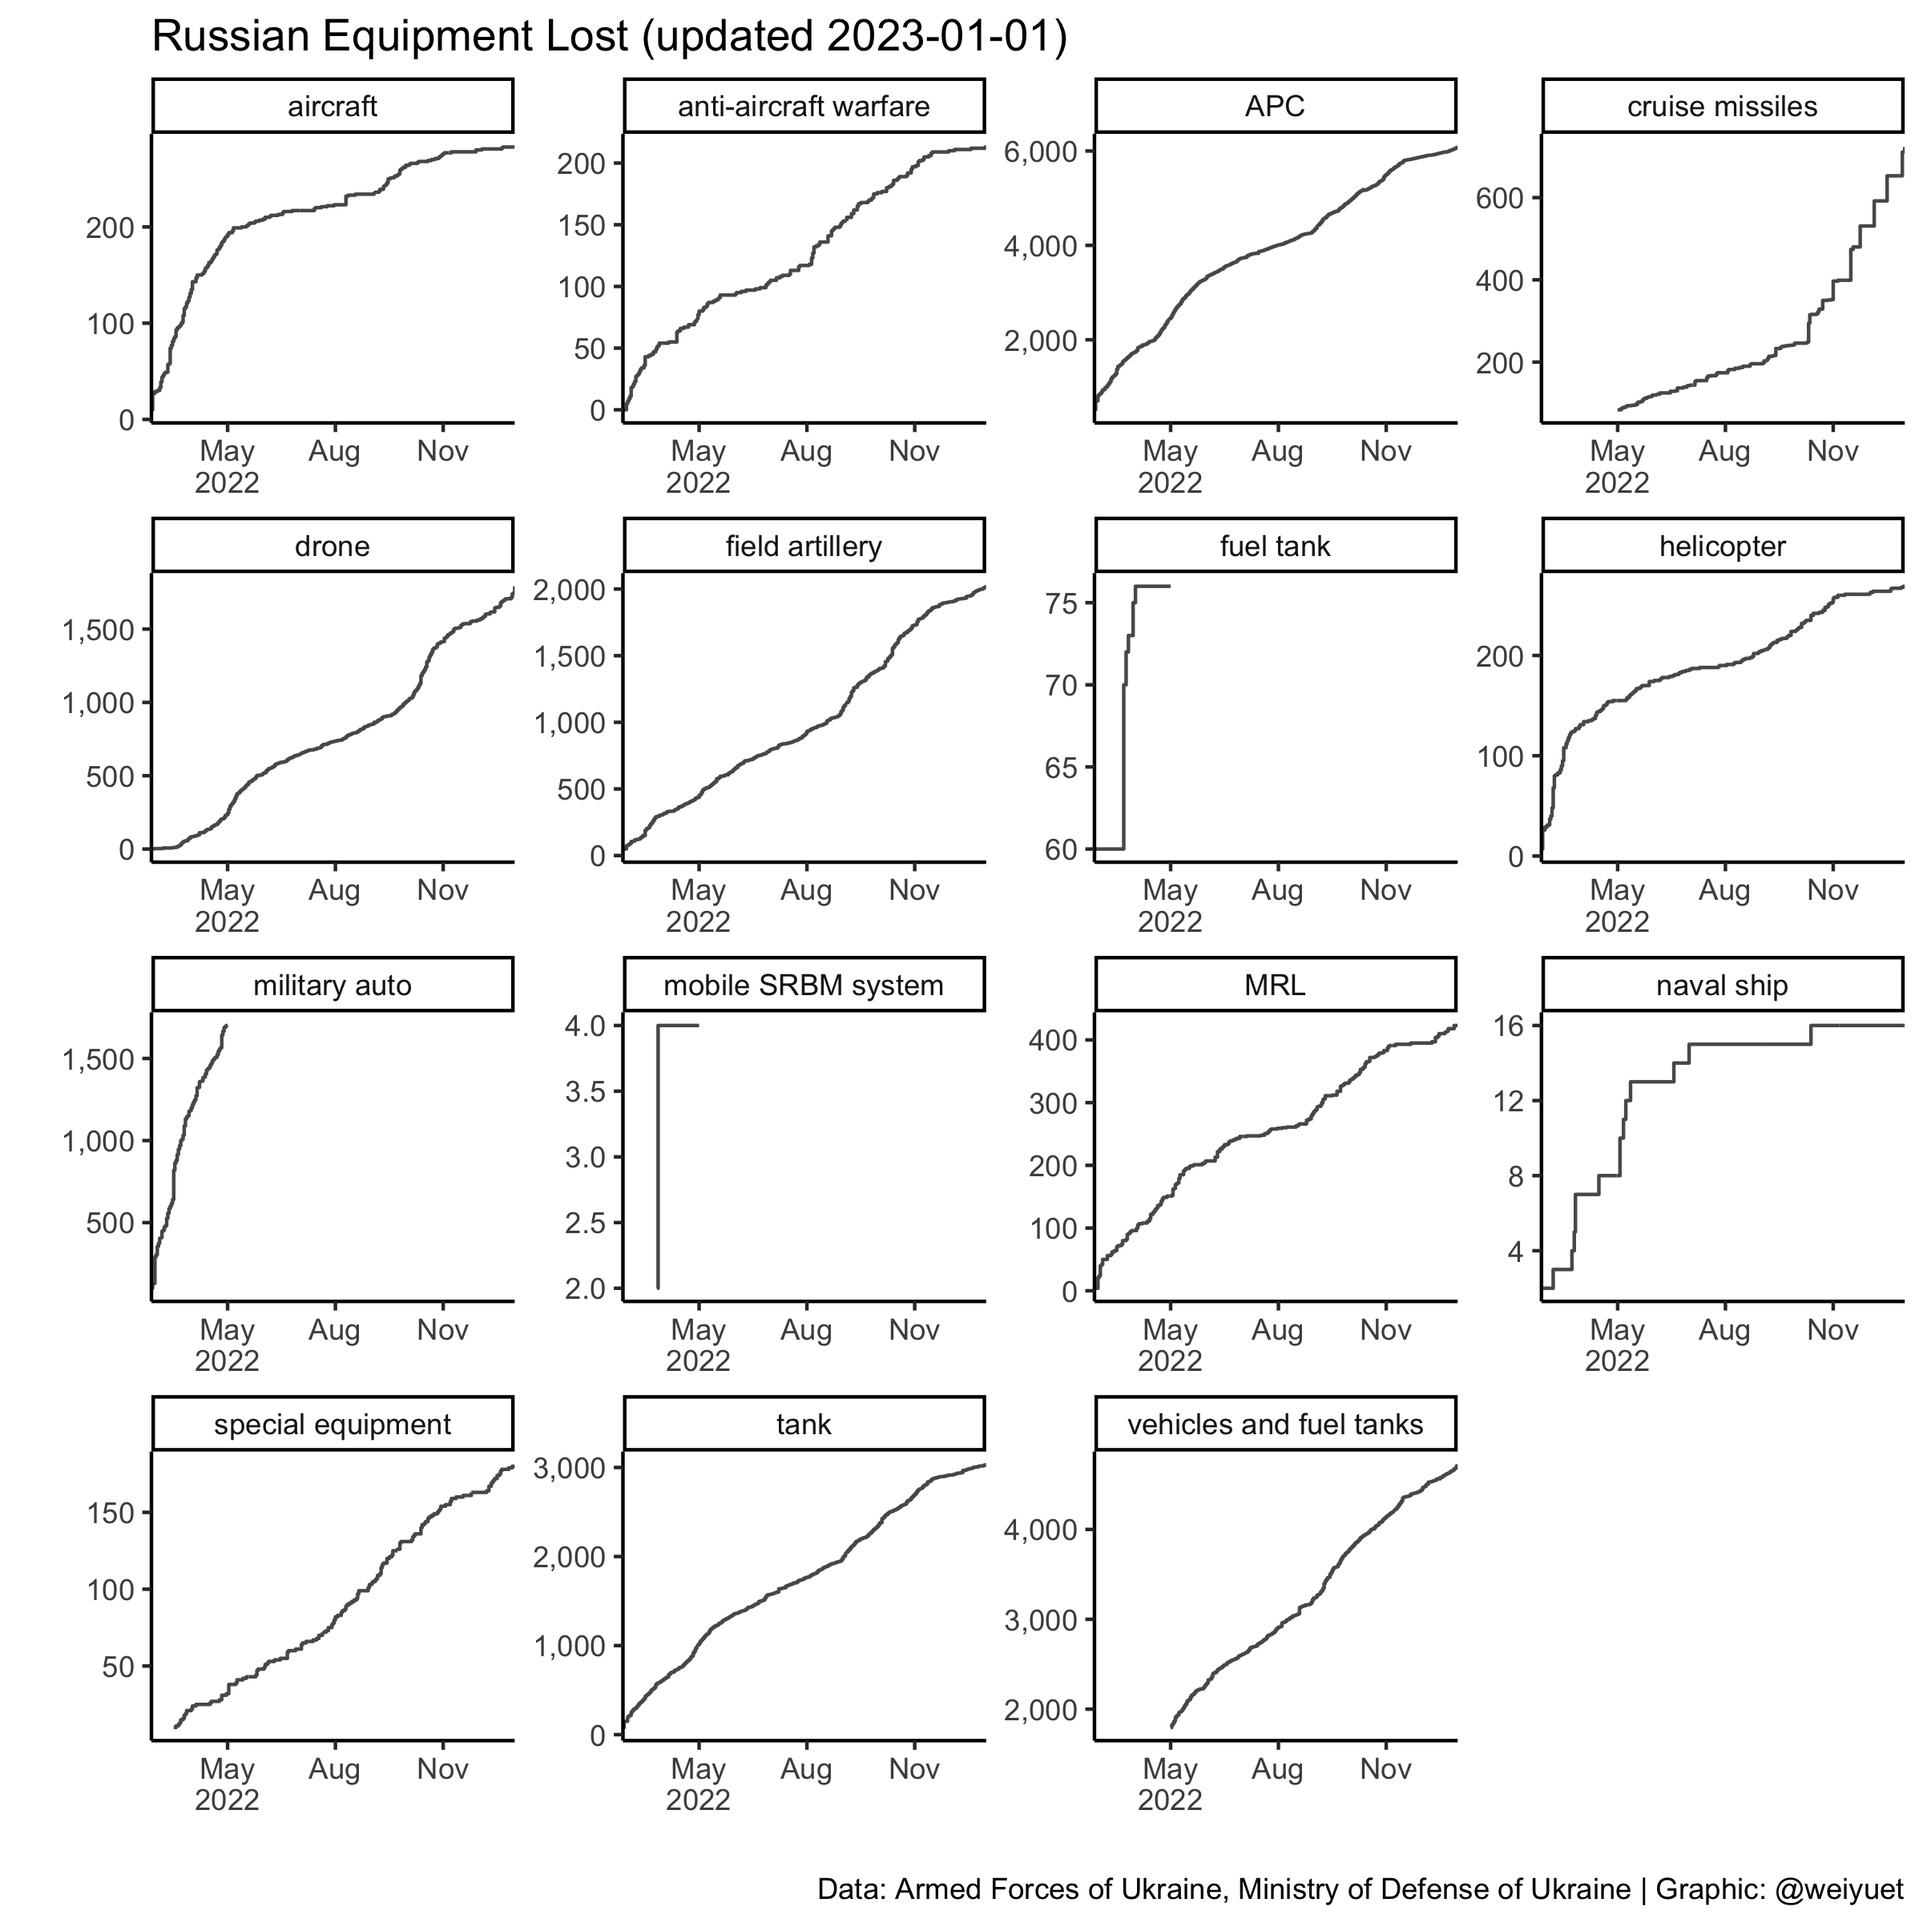
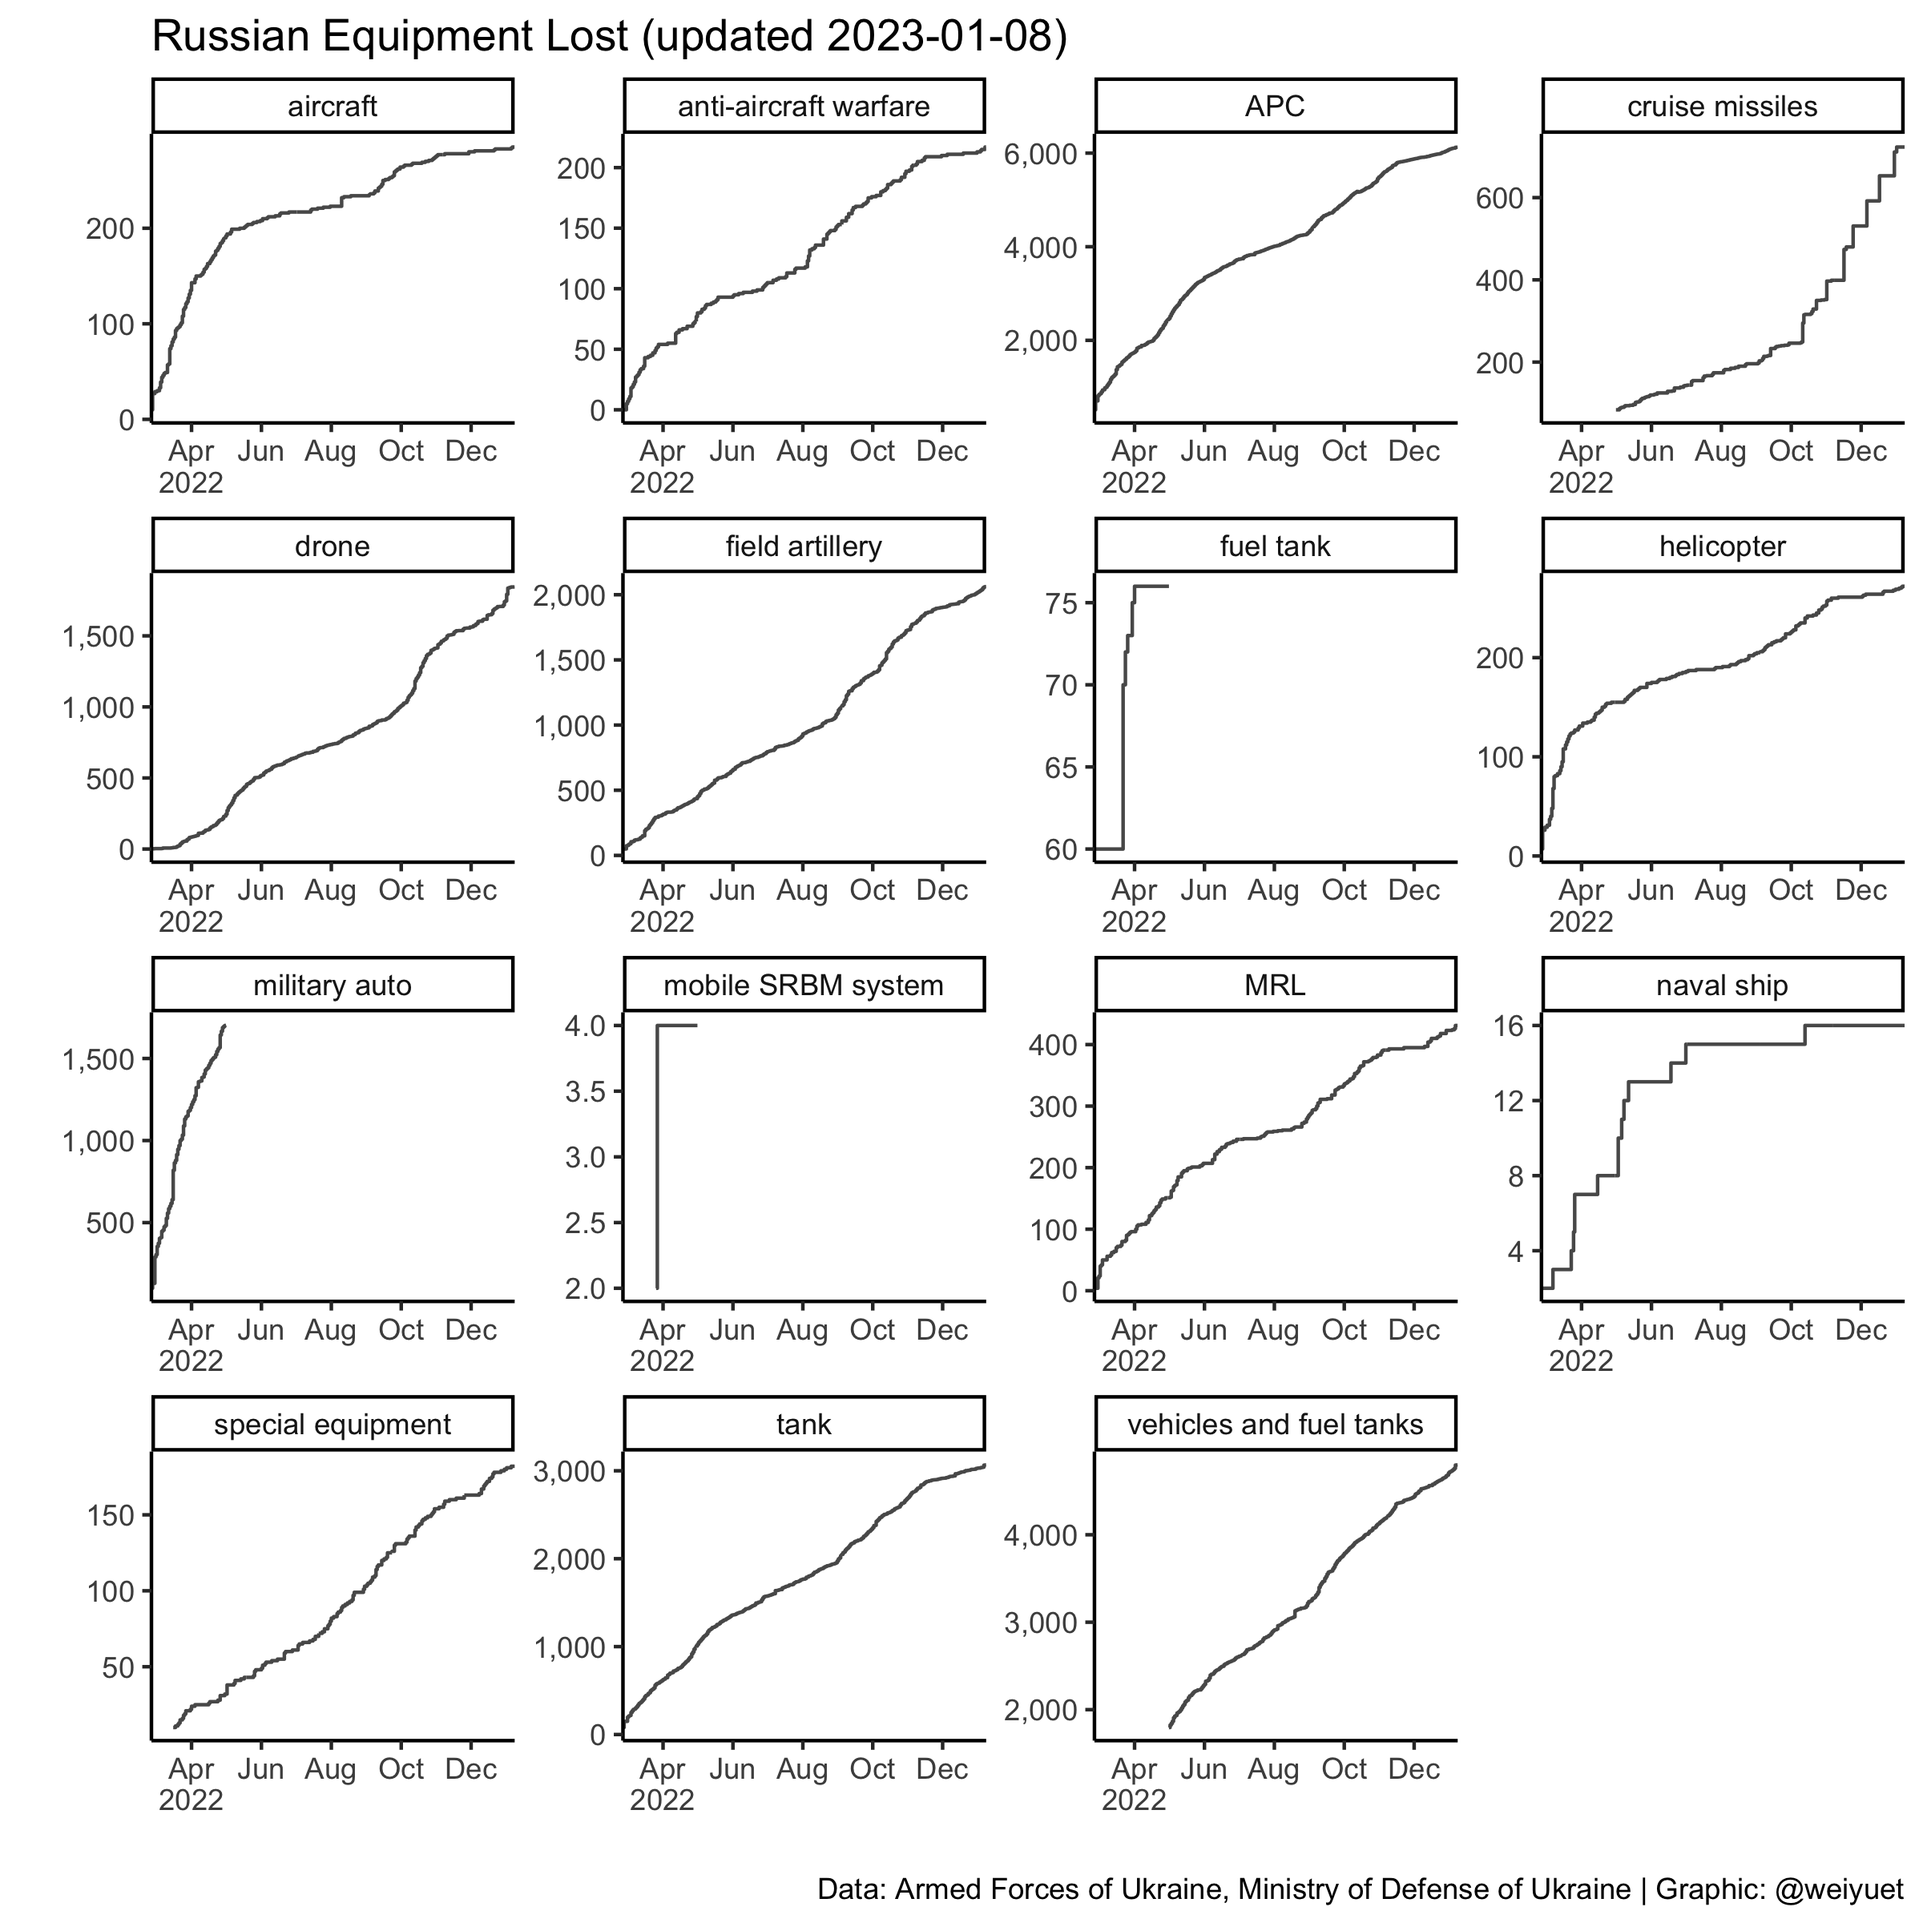
Updated 10 January

diff --git a/README.md b/README.md
@@ -6,7 +6,7 @@ Wong Wei Yuet 2022-05-26
 
   - War casualty data updated daily from [`Petro Ivanyuk's Kaggle`](https://www.kaggle.com/datasets/piterfm/2022-ukraine-russian-war). All data is official and put together by `Petro`
 
-Updated: 2023-01-05
+Updated: 2023-01-10
 
 ## Summary of Conflict
 
